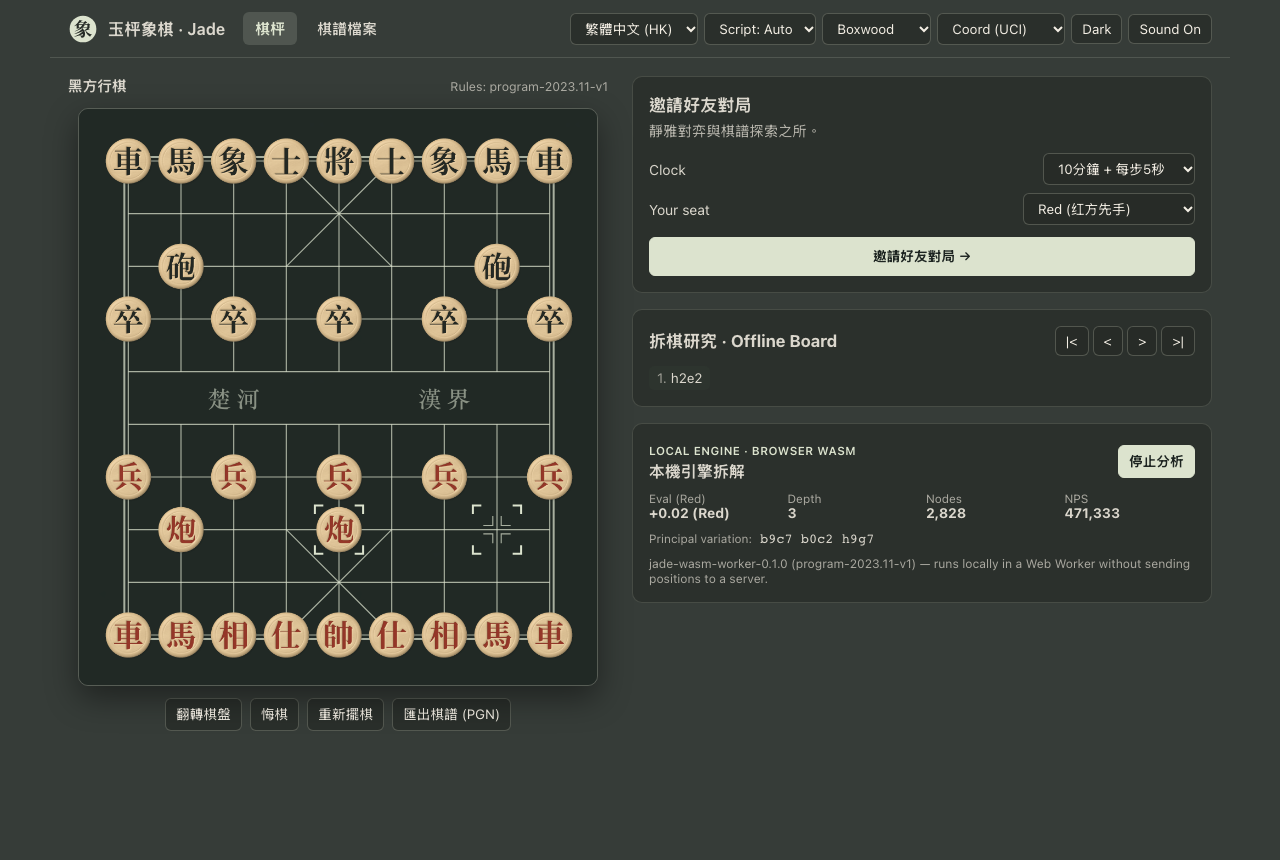
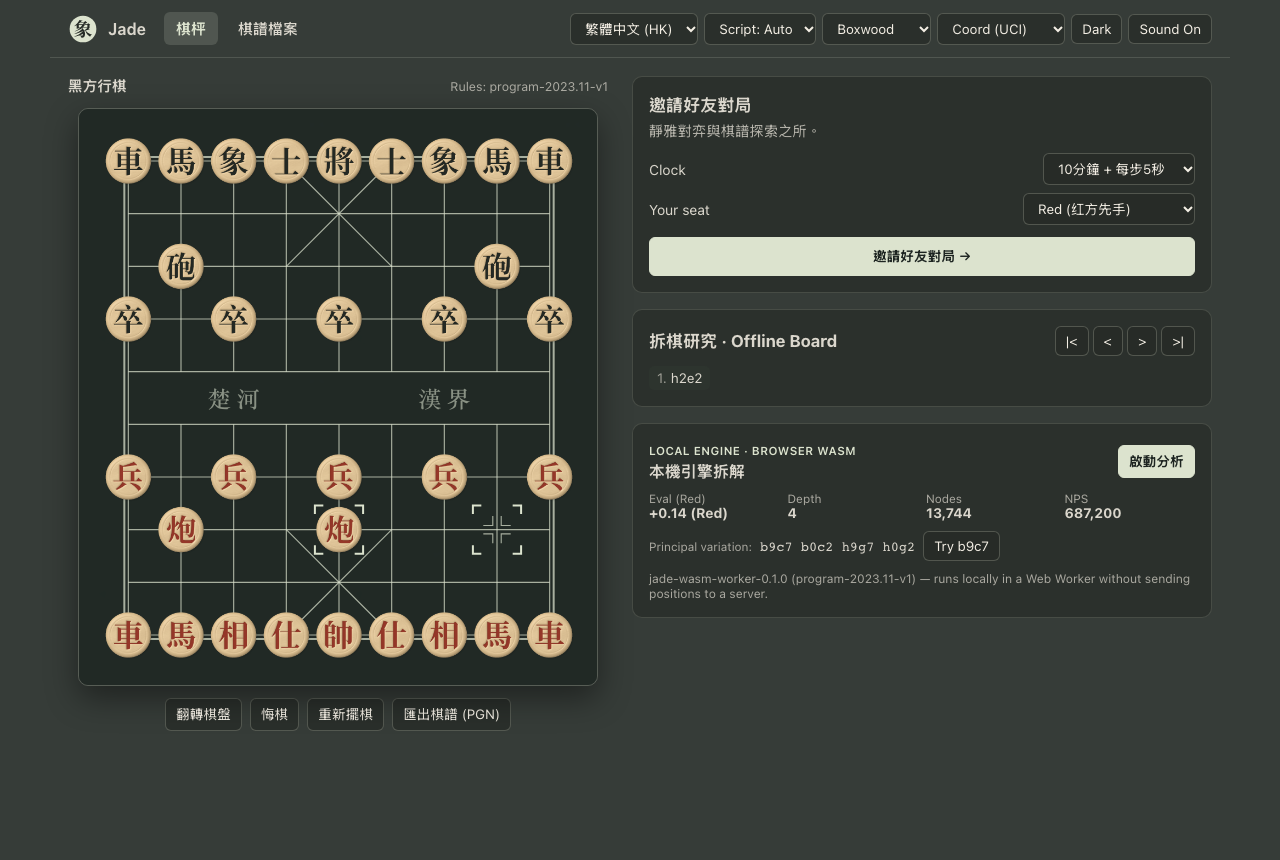
fix(web): 🐛 show the brand name Jade in the header
The glossary's product.title stays the descriptive title for metadata.

diff --git a/apps/web/app/app.vue b/apps/web/app/app.vue
@@ -31,7 +31,8 @@ useHead(() => ({
             height="30"
             class="jade-signet"
           />
-          <span class="jade-brand-title">{{ t('product.title') }}</span>
+          <!-- The brand name; the glossary's product.title is the descriptive title for metadata. -->
+          <span class="jade-brand-title">Jade</span>
         </NuxtLink>
 
         <nav class="jade-nav" aria-label="Primary">
